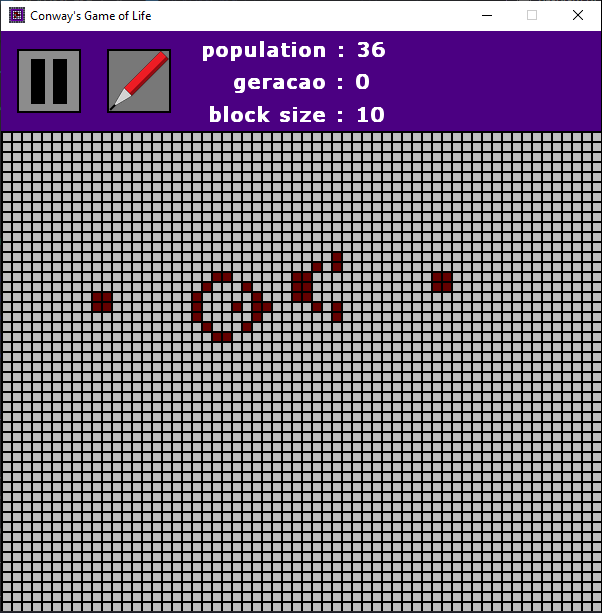
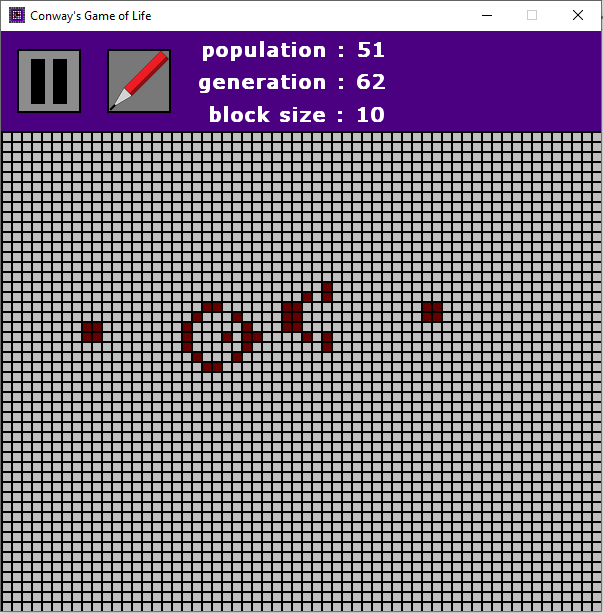
update codes

diff --git a/src/menu.py b/src/menu.py
@@ -61,8 +61,8 @@ class SettingsDisplay:
         destiny.blit(text, (200, 5))
 
         text = self.font.render(
-            f"geracao : {grid.geration}", True, (255, 255, 255))
-        destiny.blit(text, (232, 37))
+            f"generation : {grid.geration}", True, (255, 255, 255))
+        destiny.blit(text, (197, 37))
 
         text = self.font.render(
             f"block size : {grid.block_size}", True, (255, 255, 255))

diff --git a/src/main.py b/src/main.py
@@ -73,7 +73,7 @@ def main() -> None:
     pygame.init()
     screen = pygame.display.set_mode((SCREEN_W, SCREEN_H))
     icon = pygame.image.load('images/icon32.png')
-    pygame.display.set_caption('Conway\'s Game of Life')
+    pygame.display.set_caption("Conway's Game of Life")
     pygame.display.set_icon(icon)
 
     grid_surface = pygame.Surface((SCREEN_W, 480))
